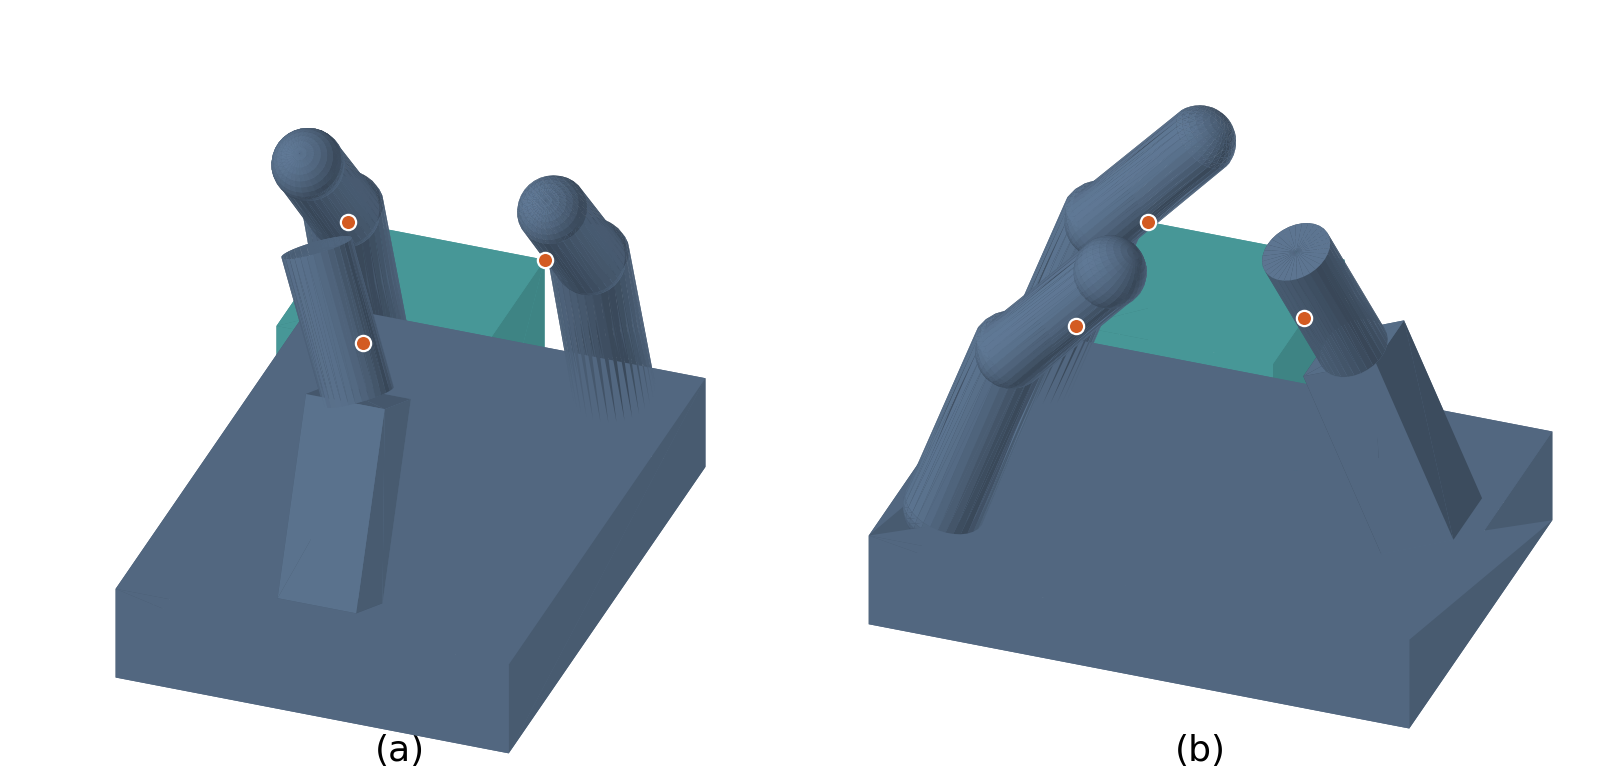
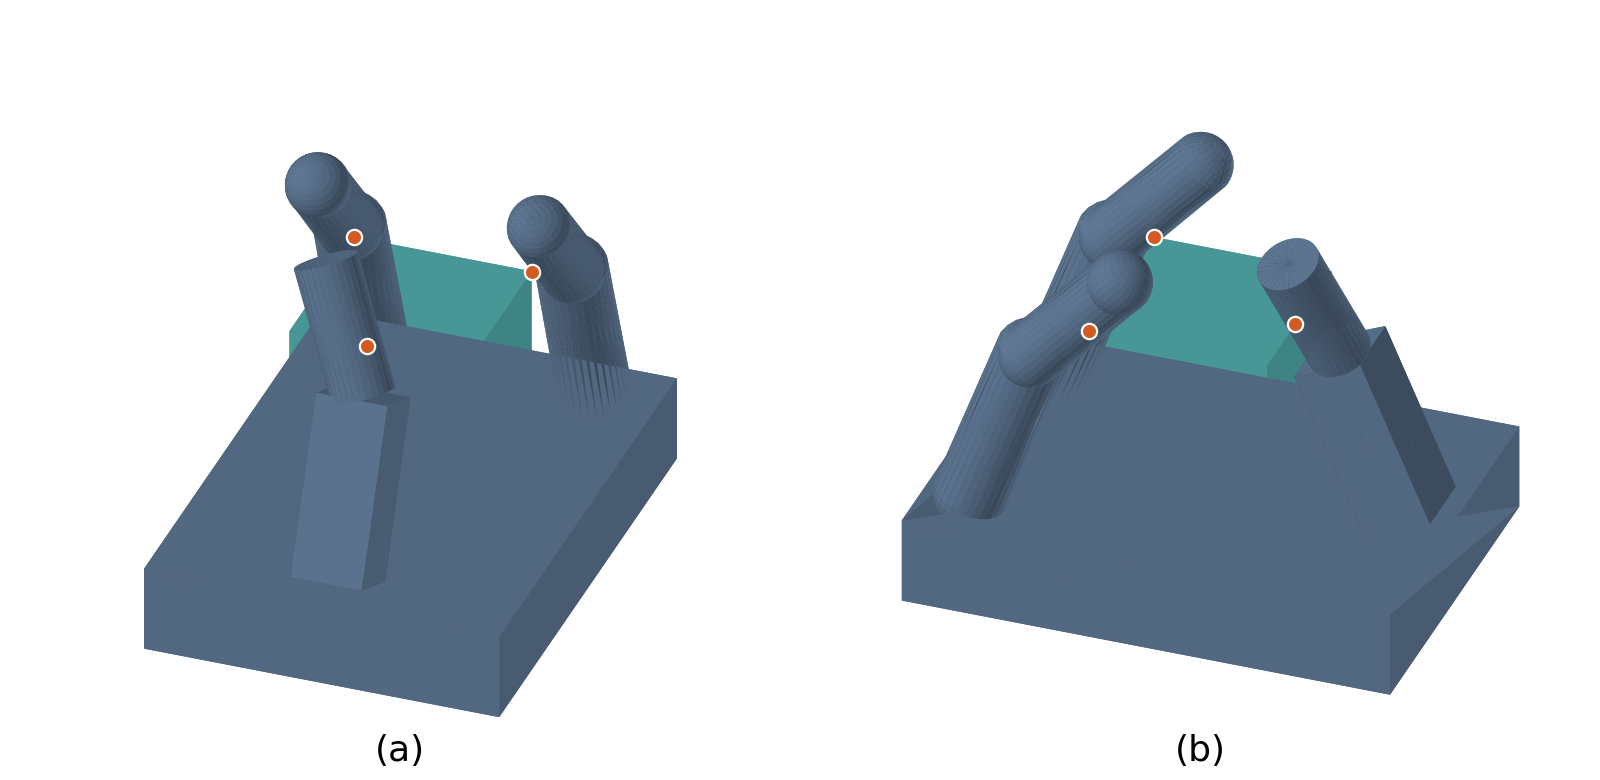
clear space below the grasp renders

diff --git a/docs/examples/render_evidence.py b/docs/examples/render_evidence.py
@@ -113,7 +113,7 @@ def render(capture_file, output):
                 ax.set(xlim=(center[0]-radius, center[0]+radius),
                        ylim=(center[1]-radius, center[1]+radius),
                        zlim=(center[2]-radius, center[2]+radius))
-                ax.set_box_aspect((1, 1, 1), zoom=1.24)
+                ax.set_box_aspect((1, 1, 1), zoom=1.12)
                 ax.set_proj_type("ortho")
                 ax.view_init(elev=32 if stem == "generated-grasps" else 21, azim=-70)
                 ax.set_axis_off()
